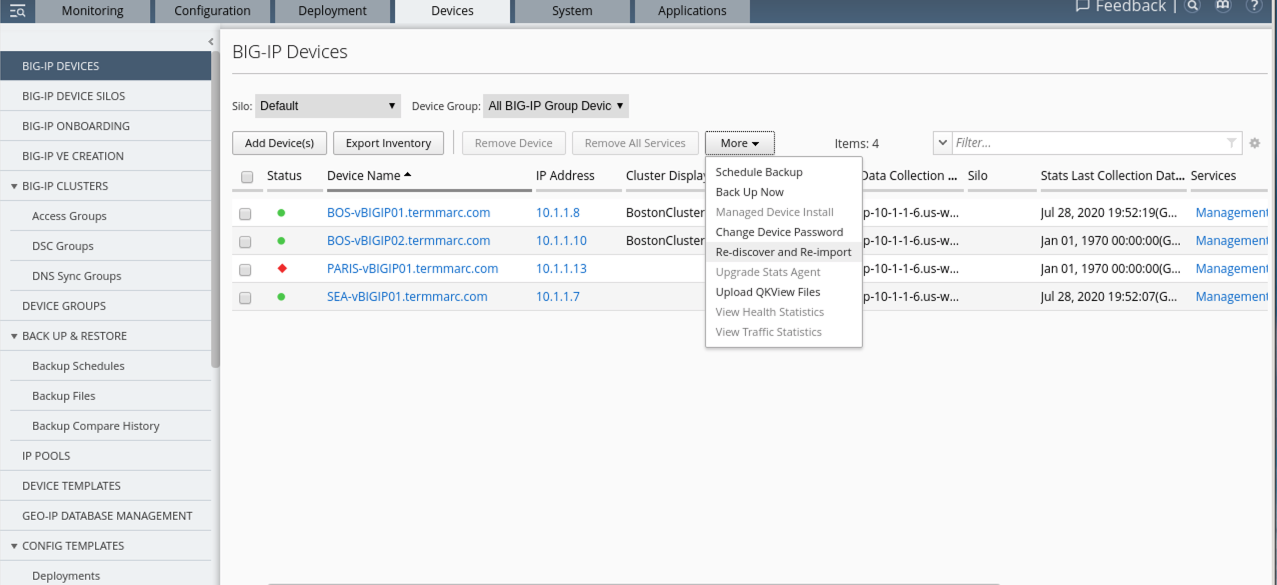
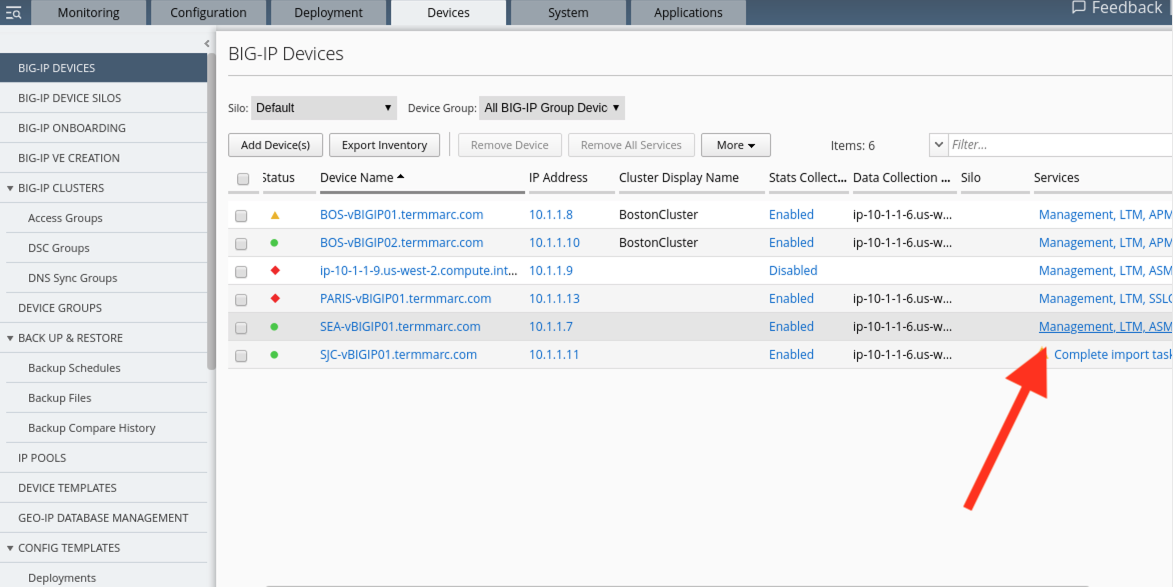
added new images for step 14

diff --git a/docs/class5/module1/lab7.rst b/docs/class5/module1/lab7.rst
@@ -121,8 +121,12 @@ Example of assessments comparison.
   :scale: 40%
   :align: center
 
-14. Go back to the Device tab and re-import and re-discover SEA-vBIGIP01.termmarc.com, important step to perform after the BIG-IP upgrade.
+14. Go back to the Device tab click under services for SEA-vBIGIP01.termmarc.com then re-discover and re-import, important step to perform after the BIG-IP upgrade.
 
 .. image:: ./media/lab-7-17.png
+  :scale: 40%
+  :align: center
+
+.. image:: ./media/lab-7-18.png
   :scale: 40%
   :align: center
